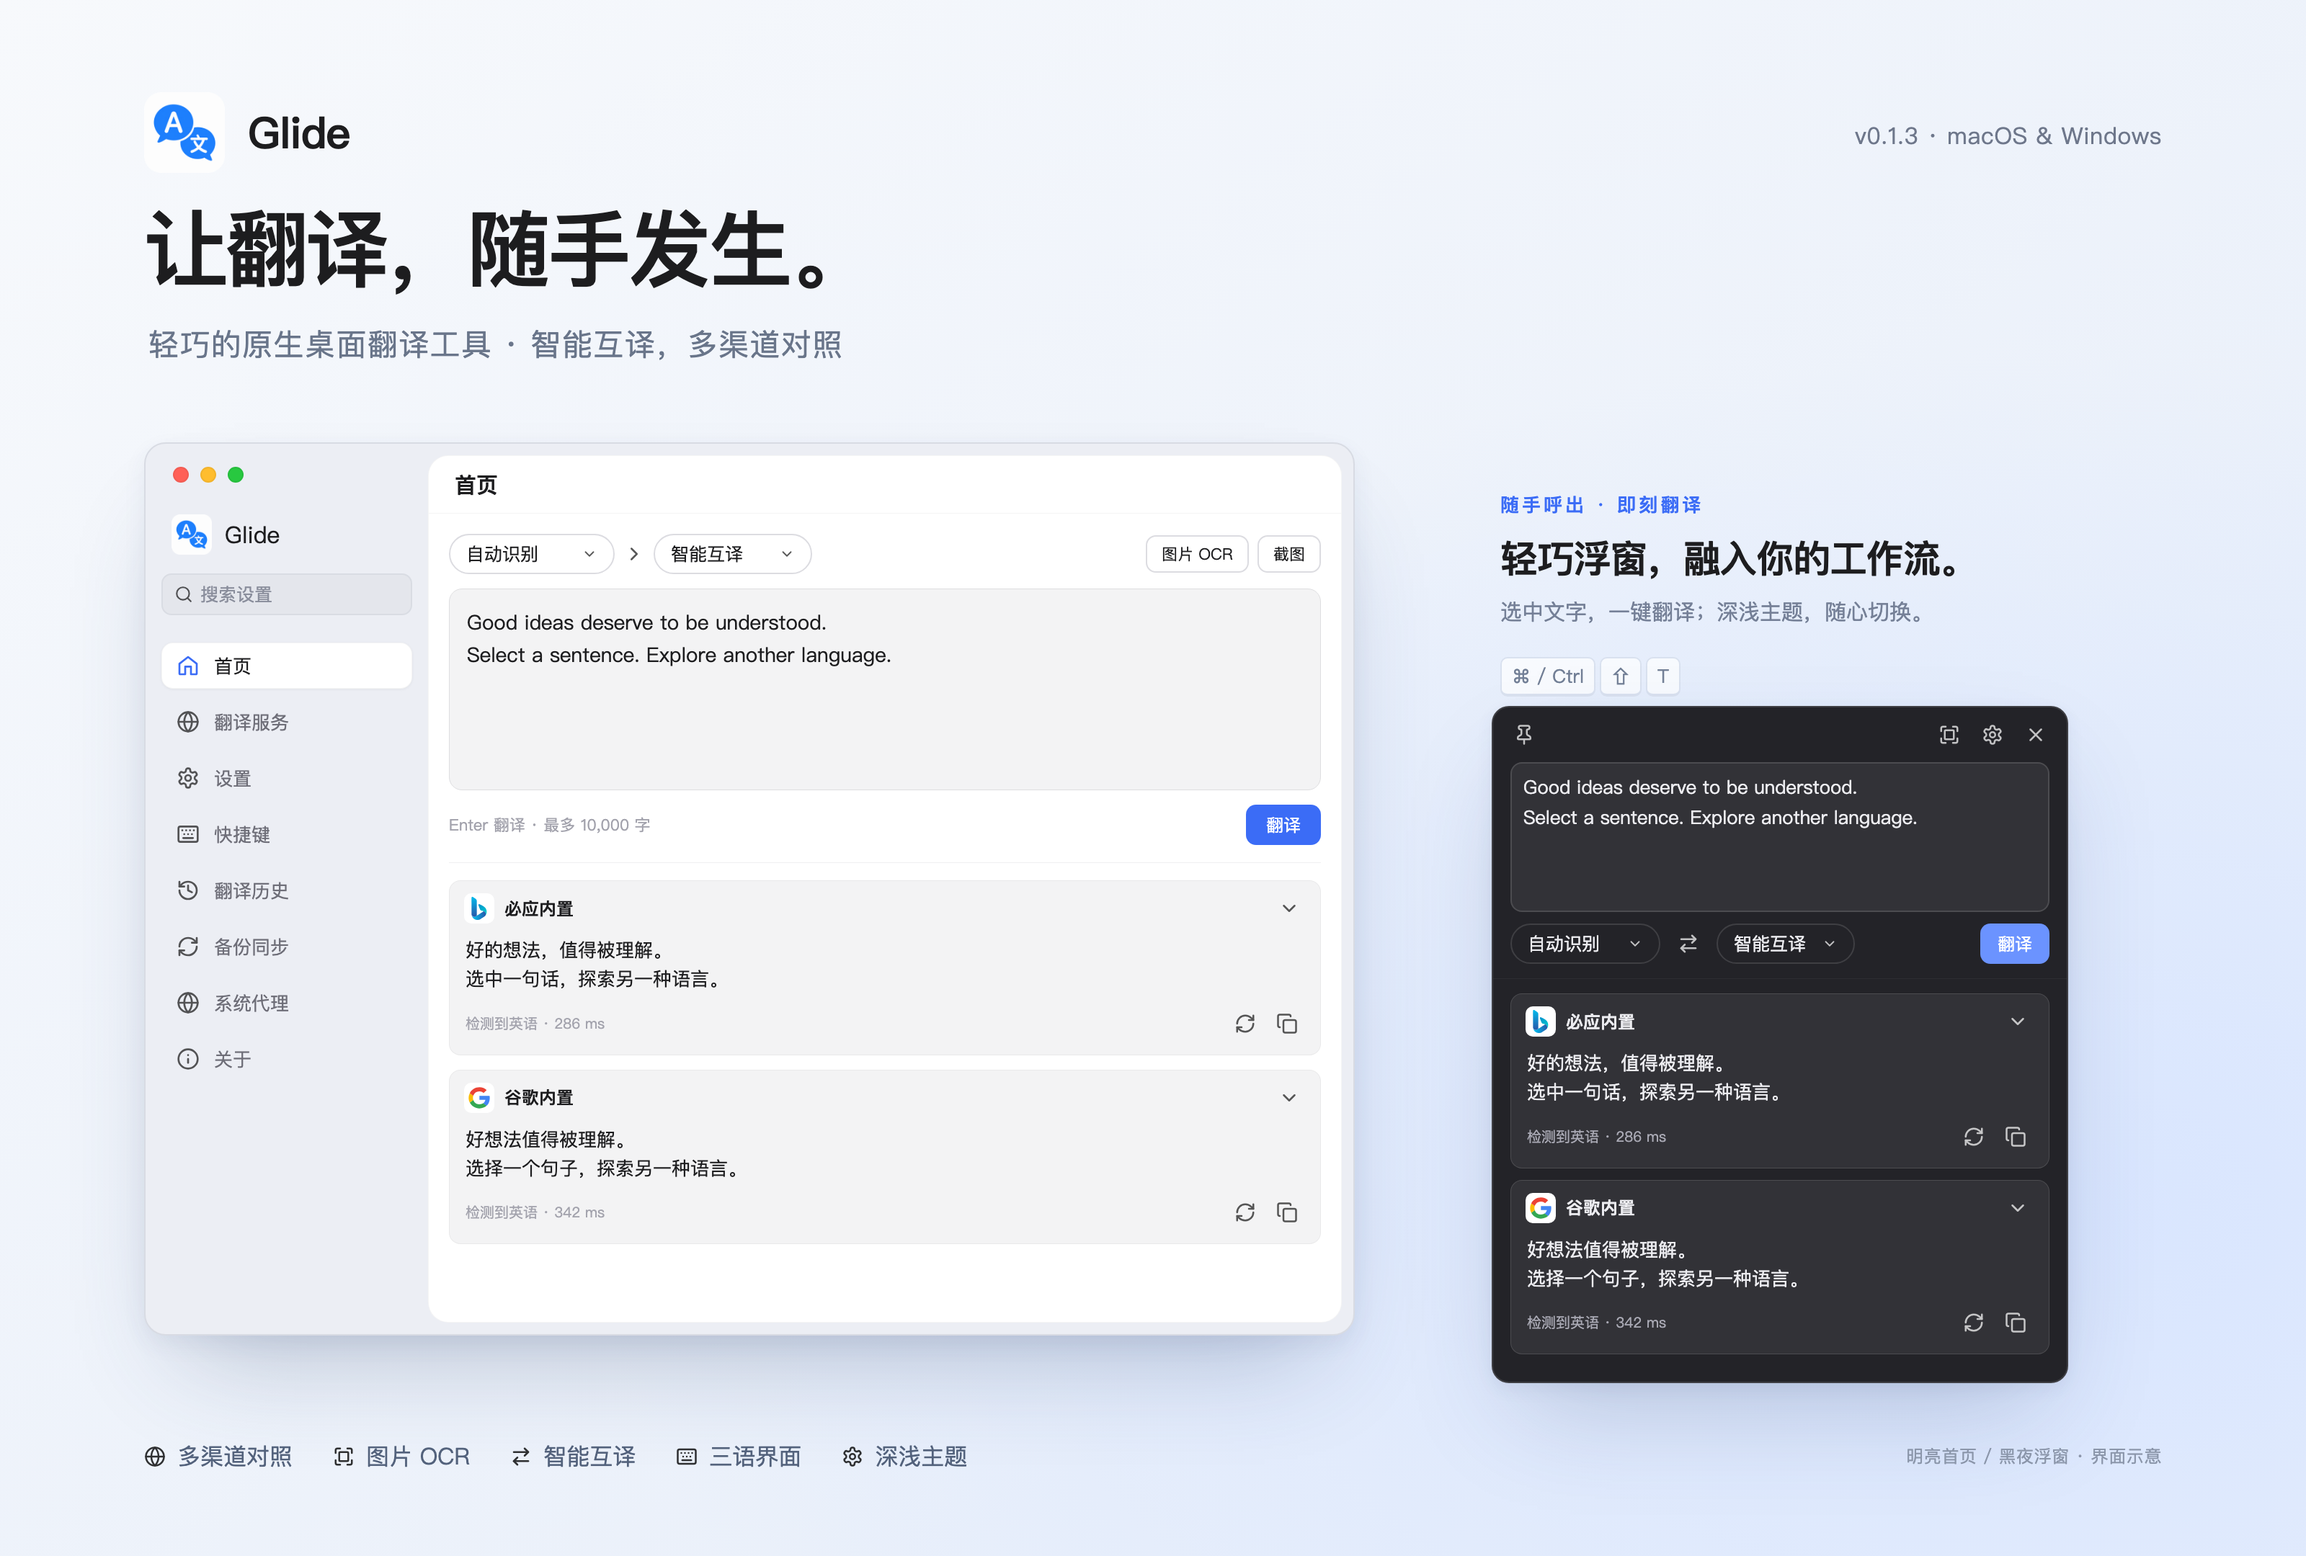
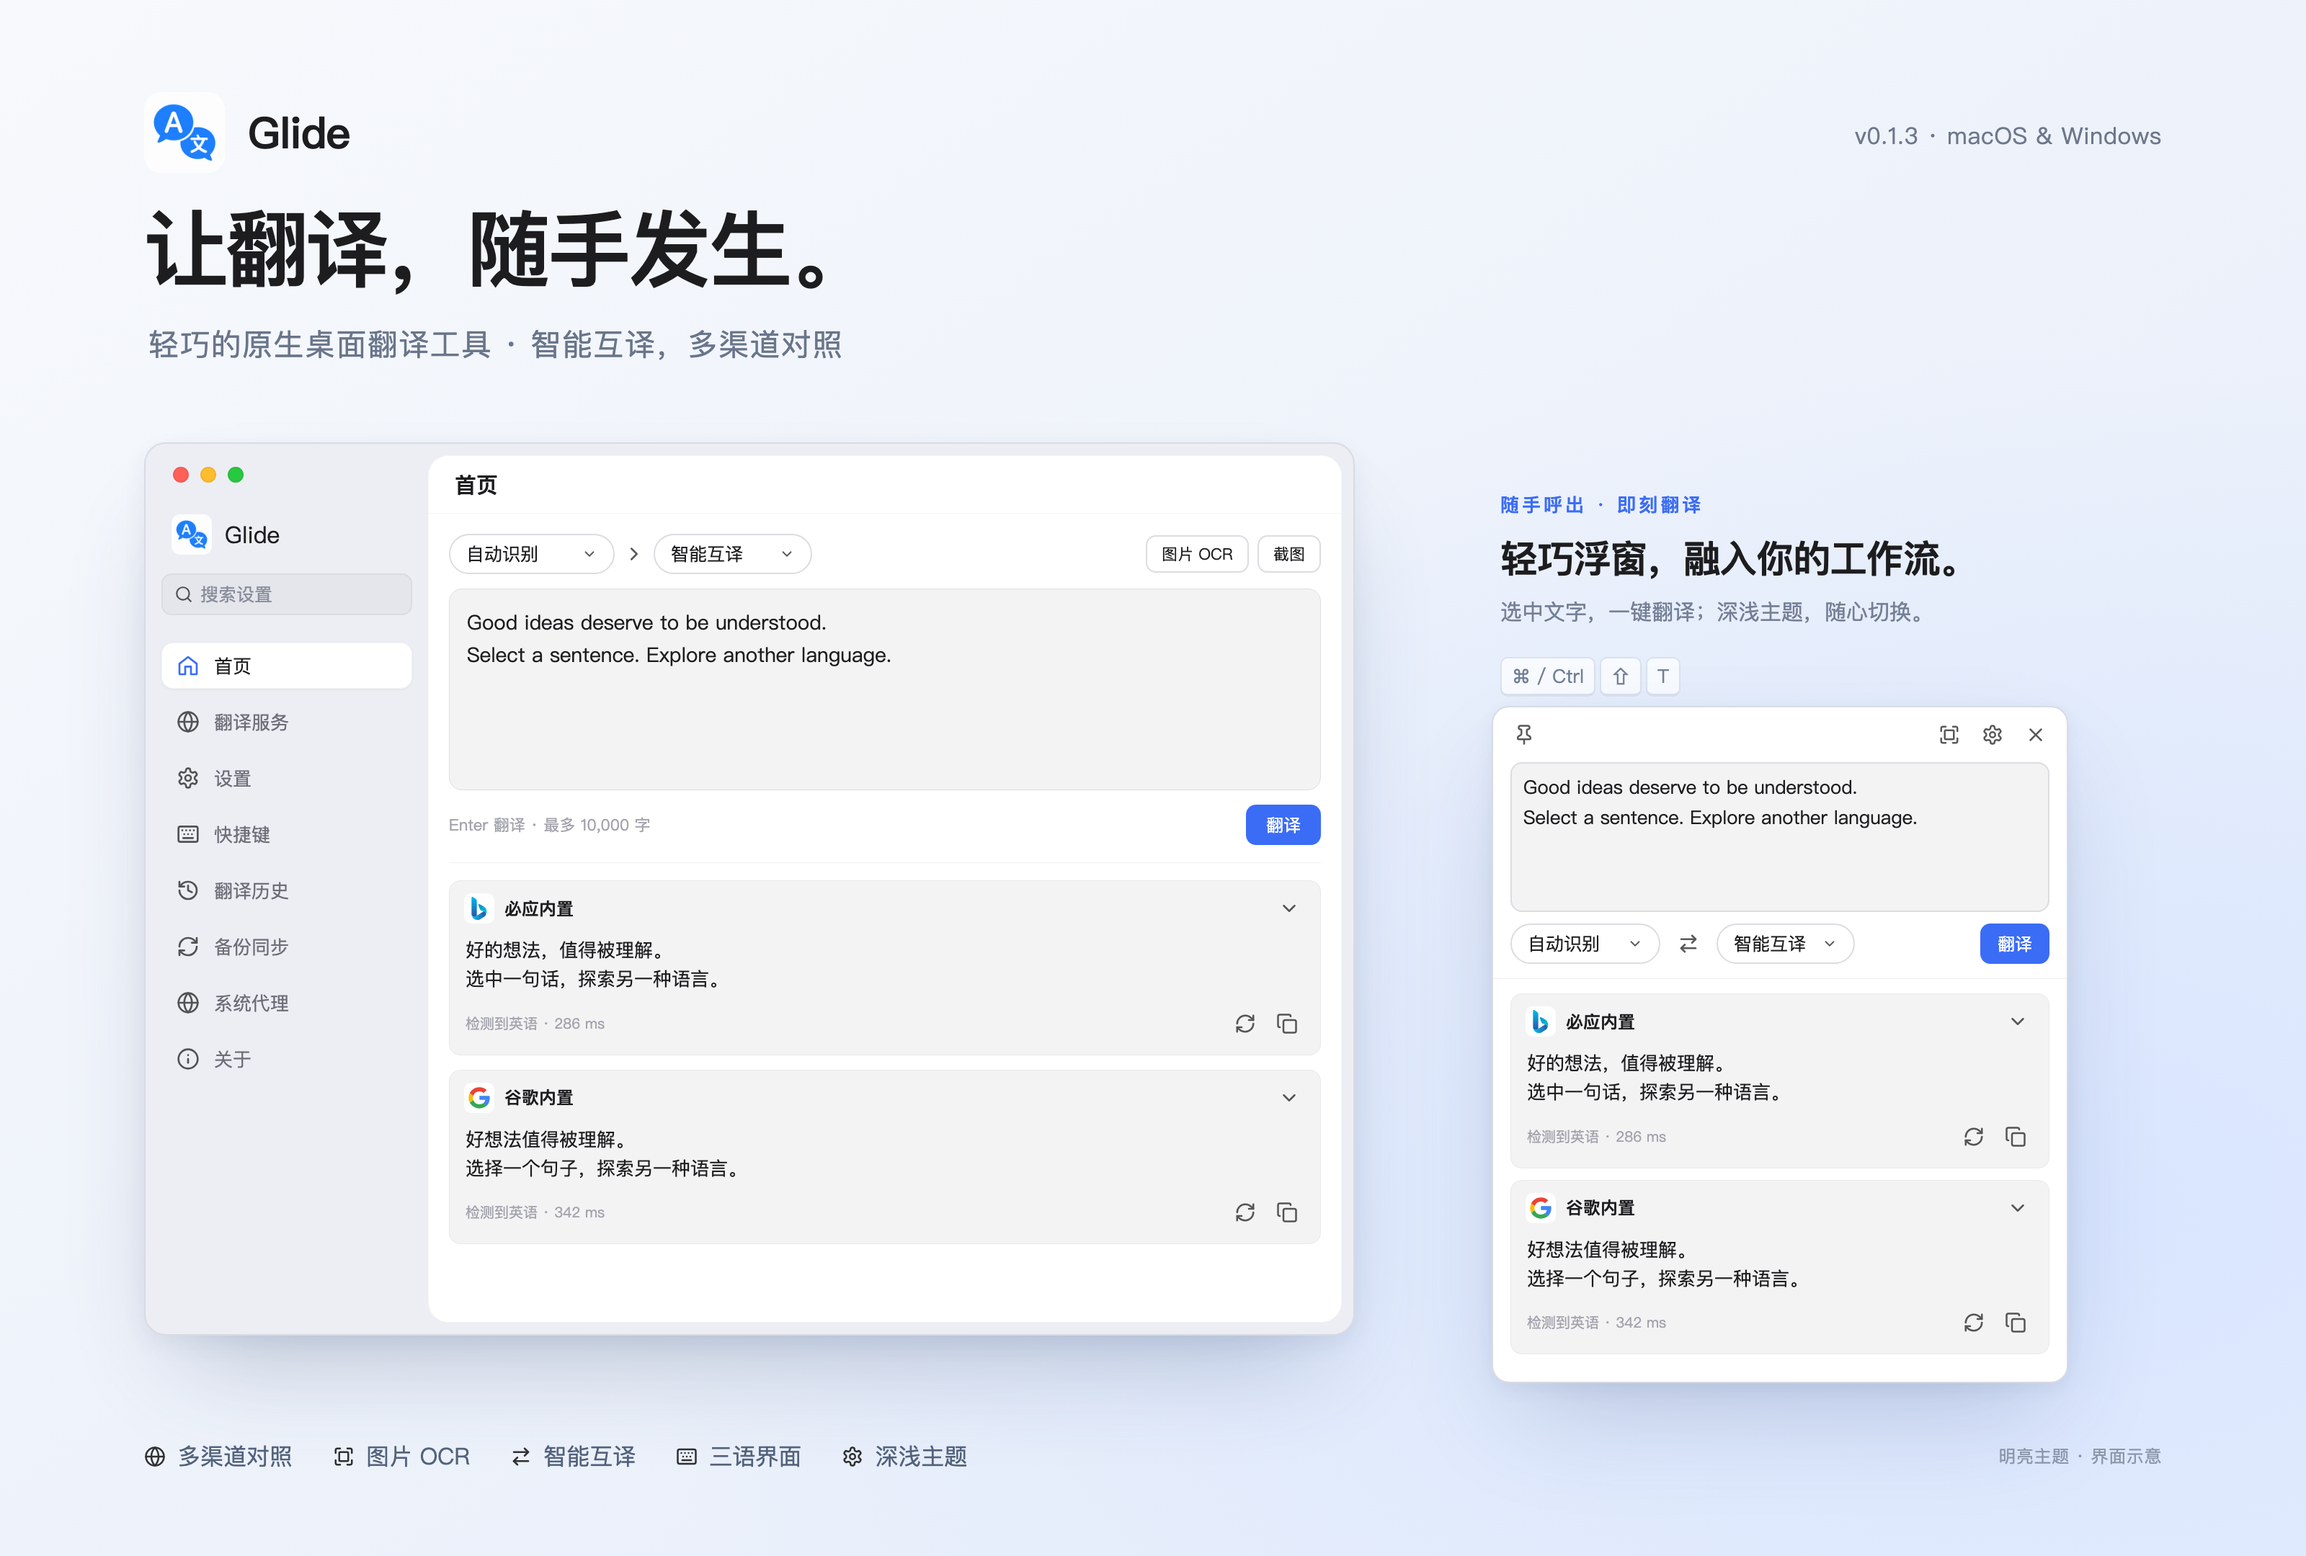
fix: 调整渲染

Changed region(s): [[0.625, 0.4343, 0.9062, 0.8995], [0.8438, 0.9306, 0.9062, 0.9616]]

diff --git a/designs/readme-promo/glide-promo.html b/designs/readme-promo/glide-promo.html
@@ -44,14 +44,6 @@ h1{position:absolute;left:100px;top:135px;margin:0;font-size:58px;font-weight:65
 .key{display:inline-flex;gap:3px;align-items:center;font-size:13px;color:#738097;margin-top:21px}.key span{background:#ffffffb0;border:1px solid #d9e1ef;border-bottom-width:2px;border-radius:5px;padding:3px 7px}
 .footer{position:absolute;left:100px;right:100px;bottom:58px;display:flex;align-items:center;gap:30px;color:#53627c;font-size:16px}.feature{display:flex;align-items:center;gap:8px}.feature .icon{opacity:.8;color:#3b6cf6}.note{margin-left:auto;font-size:12px;color:#8b96aa;letter-spacing:.3px}
 
-/* 深色浮窗沿用应用 pnColors 的黑夜配色，展示另一种主题外观。 */
-.float{background:#232328;color:#ececf0;border-color:#ffffff20}
-.float .input,.float .result{background:#323237;border-color:#ffffff21}
-.float .select{border-color:#ffffff21}
-.float .divider{background:#ffffff0c}
-.float .primary{background:#6b93ff}
-.float .metadata{color:#a9a9b4}
-.float .icon{filter:invert(1);opacity:.72}
 .footer{gap:28px}
 .feature{white-space:nowrap}
 </style></head>
@@ -88,7 +80,7 @@ h1{position:absolute;left:100px;top:135px;margin:0;font-size:58px;font-weight:65
 </article></div>
 </div></div></section>
 <div class="float-label"><div class="eyebrow">随手呼出 · 即刻翻译</div><h2>轻巧浮窗，融入你的工作流。</h2><p>选中文字，一键翻译；深浅主题，随心切换。</p><div class="key"><span>⌘ / Ctrl</span><span>⇧</span><span>T</span></div></div>
-<section class="window float" aria-label="黑夜主题：翻译浮窗演示">
+<section class="window float" aria-label="明亮主题：翻译浮窗演示">
[1 lines of base64/hex data omitted]
 <div class="float-composer"><div class="input" lang="en">Good ideas deserve to be understood.<br />Select a sentence. Explore another language.</div>
[1 lines of base64/hex data omitted]
@@ -101,5 +93,5 @@ h1{position:absolute;left:100px;top:135px;margin:0;font-size:58px;font-weight:65
[1 lines of base64/hex data omitted]
 </article></div>
 </section>
[2 lines of base64/hex data omitted]
 </main></body></html>
